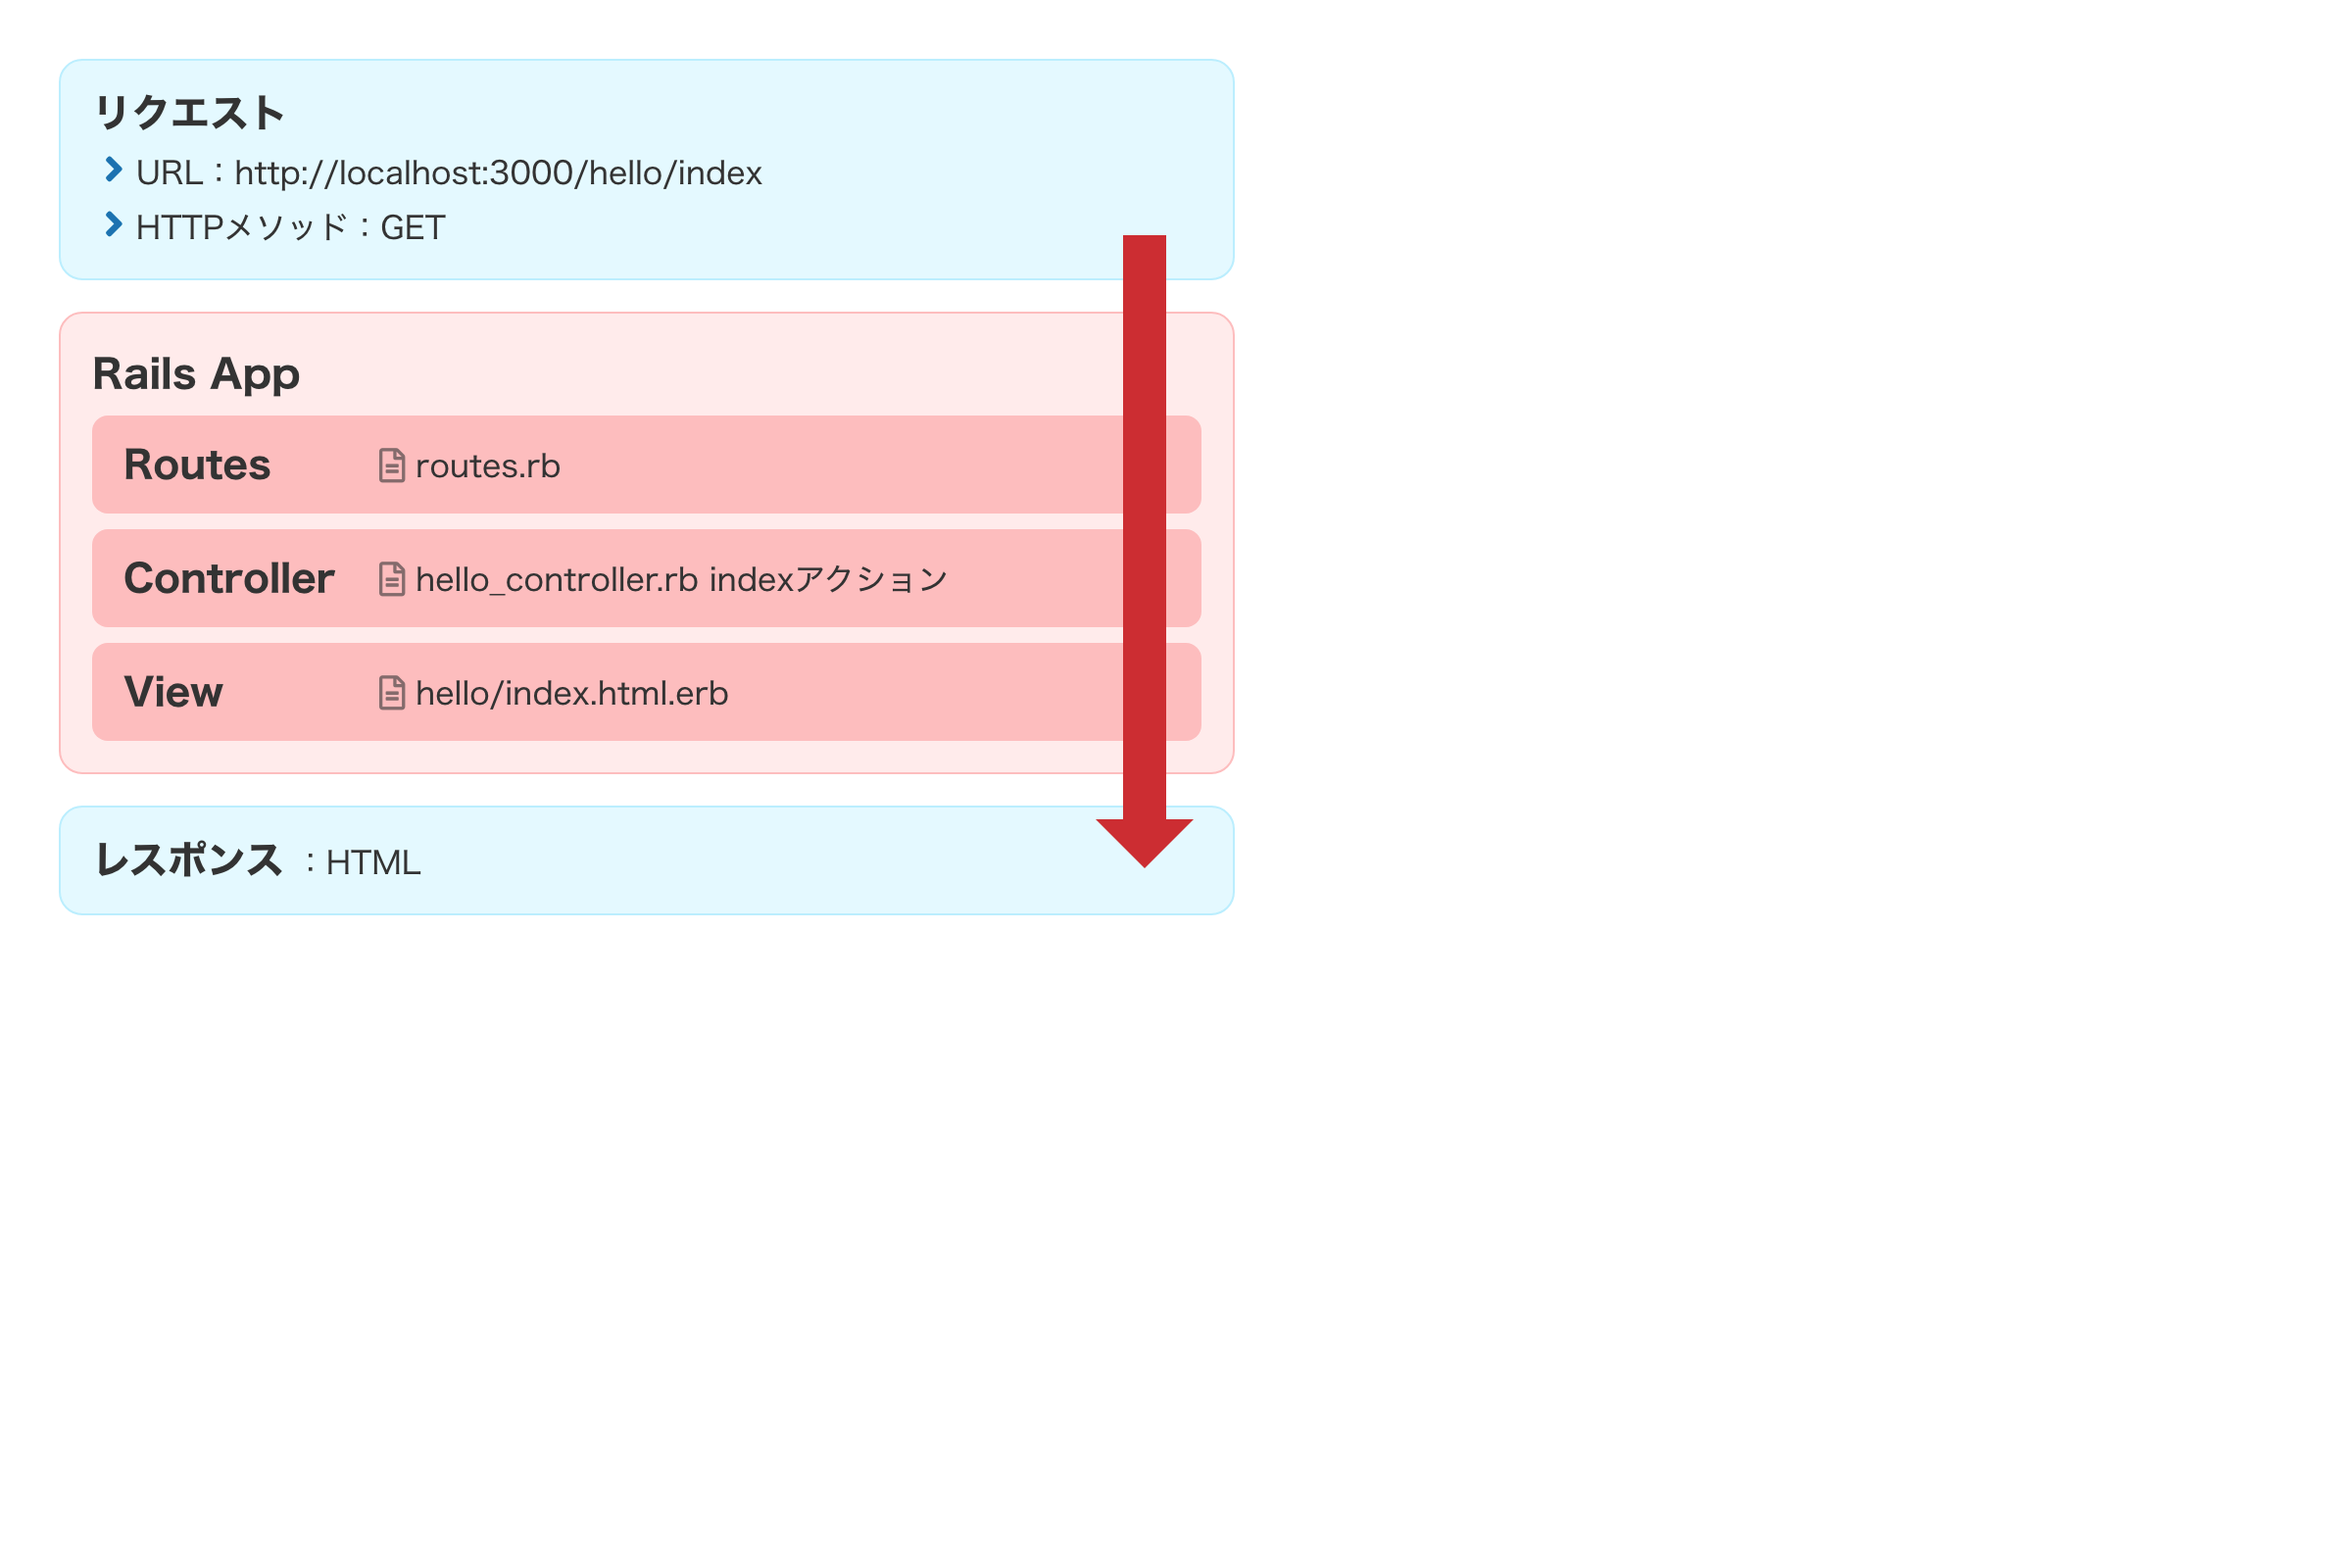
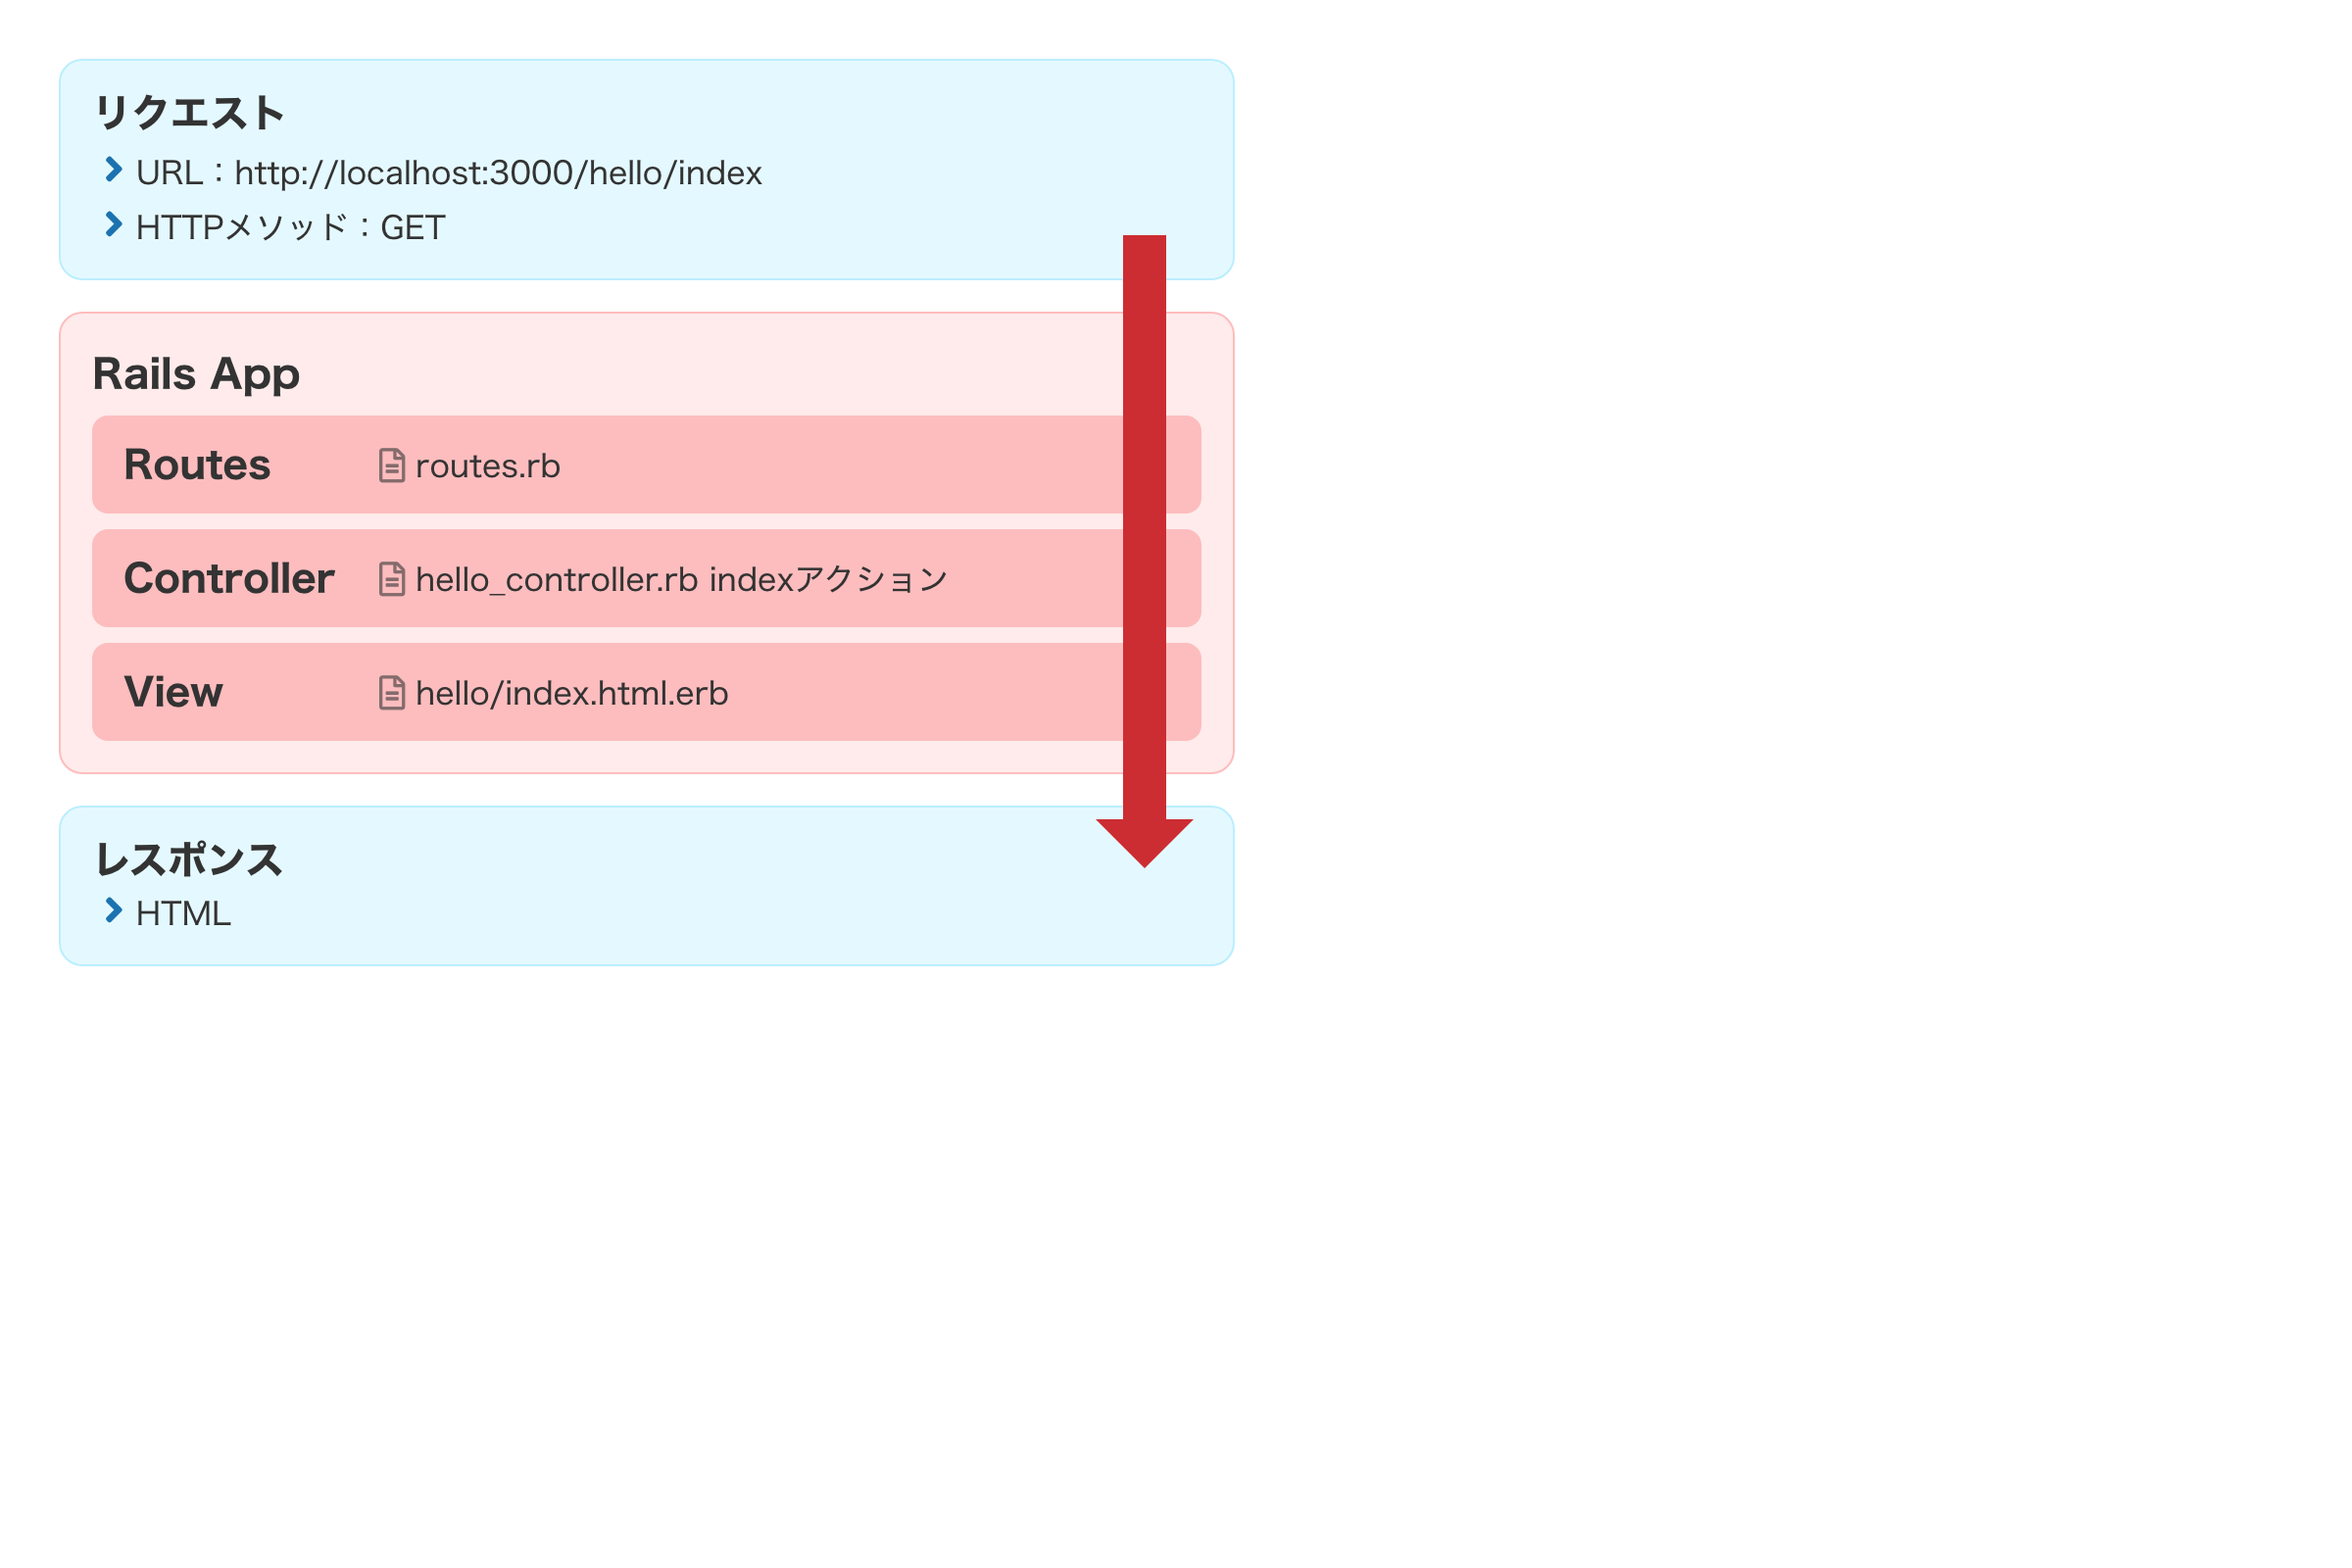
Replace :html to list element in figures

Changed region(s): [[0.0, 0.5312, 0.5312, 0.625]]

diff --git a/_figures/assets/smallest-app/instance_variable.html b/_figures/assets/smallest-app/instance_variable.html
@@ -40,7 +40,9 @@
 
 <div class="box">
   <h2 class="box__headline inline">レスポンス</h2>
-  ：HTML
+  <ul class="list">
+    <li class="list__item">HTML</li>
+  </ul>
   <img src="../img/time_jst.png" alt="画像" class="box__image image__helloworld">
 </div>
 

diff --git a/_figures/assets/figure-sample.html b/_figures/assets/figure-sample.html
@@ -51,7 +51,9 @@
 
       <div class="box">
         <h2 class="box__headline inline">レスポンス</h2>
-        ：HTML
+        <ul class="list">
+          <li class="list__item">HTML</li>
+        </ul>
       </div>
     </div>
   </section>

diff --git a/_figures/assets/CRUD/index_flow_routes.html b/_figures/assets/CRUD/index_flow_routes.html
@@ -40,7 +40,9 @@
 
 <div class="box opacity">
   <h2 class="box__headline inline">レスポンス</h2>
-  ：HTML
+  <ul class="list">
+    <li class="list__item">HTML</li>
+  </ul>
 </div>
 </div>
 </body>

diff --git a/_figures/assets/new-create/create-flow-controller.html b/_figures/assets/new-create/create-flow-controller.html
@@ -46,7 +46,9 @@
 
 <div class="box">
   <h2 class="box__headline inline">レスポンス</h2>
-  ：HTML
+  <ul class="list">
+    <li class="list__item">HTML</li>
+  </ul>
 </div>
 </div>
 </body>

diff --git a/_figures/assets/smallest-app/rails_app_request_to_response.html b/_figures/assets/smallest-app/rails_app_request_to_response.html
@@ -41,7 +41,9 @@
 
 <div class="box">
   <h2 class="box__headline inline">レスポンス</h2>
-  ：HTML
+  <ul class="list">
+    <li class="list__item">HTML</li>
+  </ul>
 </div>
 </div>
 </body>
